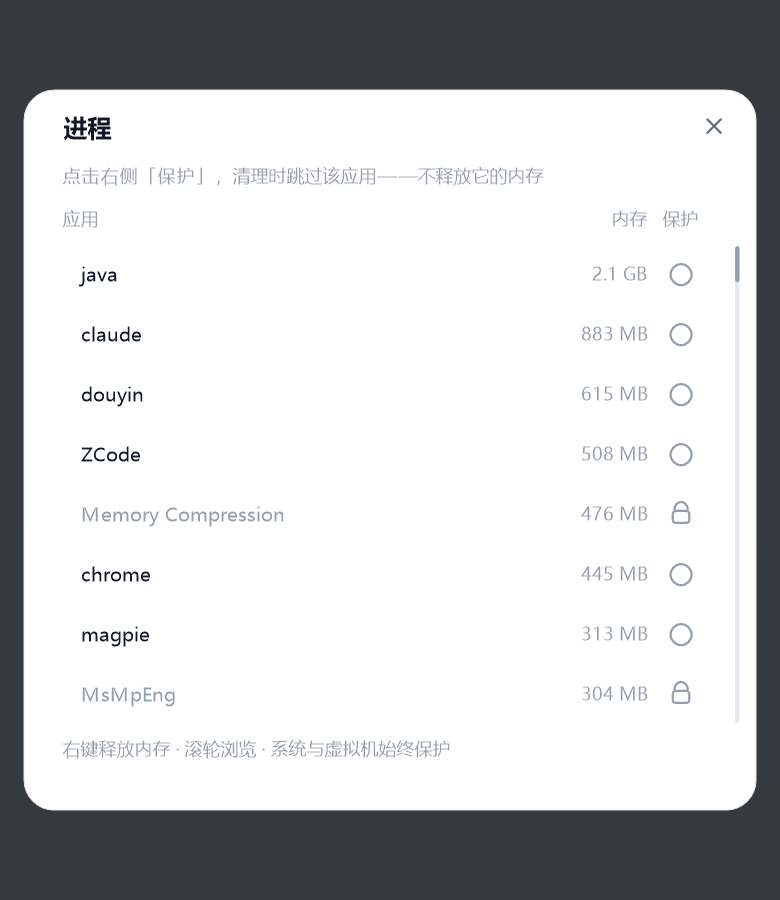
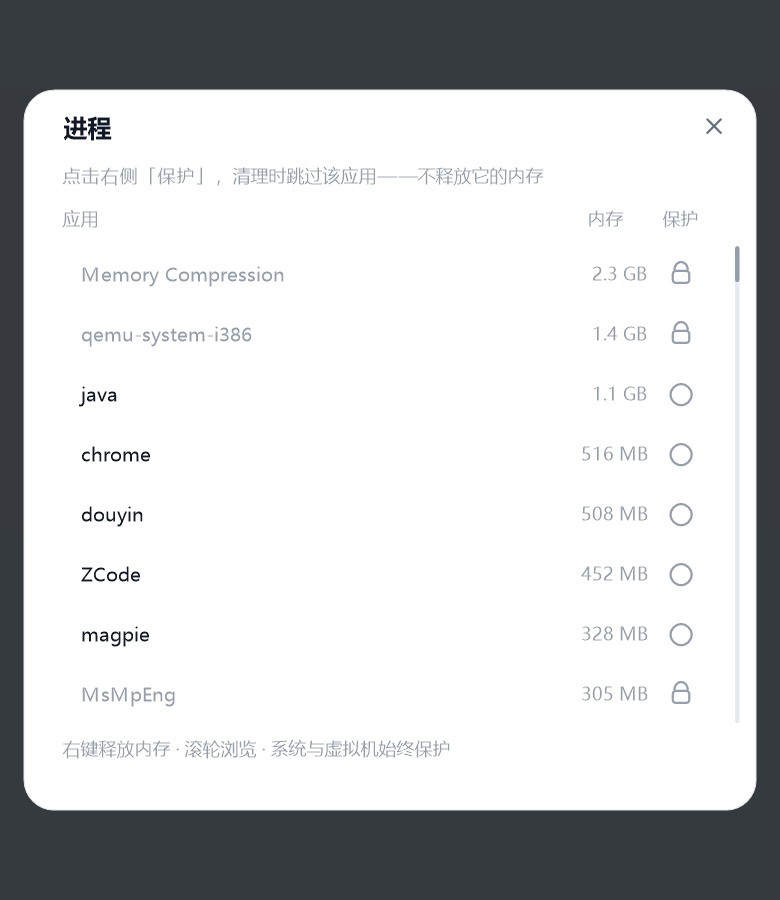
Release-readiness audit: fix install zip, whitelist .exe, EN layout (v1.9.10)
- Release zips now carry MemSweep.exe + install.cmd + uninstall.cmd +
  INSTALL.txt + LICENSE; both arches ship the exe as MemSweep.exe.
- install.cmd accepts the zip root or dist\; the old script only worked in
  a dev tree, so every download would have failed with 'run build.cmd'.
- release.yml stages per-arch folders, passes explicit files to gh (PowerShell
  does not expand globs for native commands), and runs build.cmd test before
  packaging; CI now also compiles ARM64.
- Whitelist matching normalizes .exe in RebuildWhitelist and in CommitSettings
  (dedupe + strip), so typing chrome.exe actually protects chrome.
- EN process header 'Memory Protect' no longer collides; EN advanced restores
  the Ctrl+Shift+M label. README memory numbers updated from fresh
  measurements (12MB/17MB visible, 9MB/8MB tray).
- INSTALL.txt for zips; docs/screenshots regenerated; v1.9.10.0, 413,184
  bytes, selftest PASS.

diff --git a/src/ui.cpp b/src/ui.cpp
@@ -786,7 +786,21 @@ static void CommitSettings() {
     if (g_edWL) GetWindowTextW(g_edWL, buf, 512);
     std::wstring wl = buf;
     if (wl.empty() && !g_wlDraft.empty()) wl = g_wlDraft;
-    g_cfg.whitelist = wl;
+    {
+        std::vector<std::wstring> names = SplitCSV(wl);
+        std::vector<std::wstring> canon;
+        for (auto n : names) {
+            if (n.size() > 4 && n.compare(n.size() - 4, 4, L".exe") == 0) n.resize(n.size() - 4);
+            if (n.empty()) continue;
+            if (std::find(canon.begin(), canon.end(), n) == canon.end()) canon.push_back(n);
+        }
+        std::wstring joined;
+        for (size_t i = 0; i < canon.size(); i++) {
+            if (i) joined += L", ";
+            joined += canon[i];
+        }
+        g_cfg.whitelist = joined;
+    }
     g_cfg.autostart = s_autostart;
     SaveConfig();
     RebuildWhitelist();
@@ -1312,7 +1326,7 @@ static void DrawProcessSheet(Graphics& g) {
                  L"Click Protect to skip this app when cleaning - its memory is left alone"),
            L.procSub, f11, T.text3);
     TextAt(g, Tx(L"应用", L"App"), RectF(L.procHeader.X, L.procHeader.Y, 120, 14), f11, T.text3);
-    TextAt(g, Tx(L"内存", L"Memory"), RectF(L.procHeader.GetRight() - 126, L.procHeader.Y, 80, 14),
+    TextAt(g, Tx(L"内存", L"Memory"), RectF(L.procHeader.GetRight() - 142, L.procHeader.Y, 80, 14),
            f11, T.text3, StringAlignmentFar);
     TextAt(g, Tx(L"保护", L"Protect"), RectF(L.procHeader.GetRight() - 46, L.procHeader.Y, 40, 14),
            f11, T.text3, StringAlignmentCenter);
@@ -1438,7 +1452,7 @@ static void DrawAdvancedSheet(Graphics& g) {
     const wchar_t* idZh[3] = { L"1 分钟", L"5 分钟", L"10 分钟" };
     const wchar_t* idEn[3] = { L"1m", L"5m", L"10m" };
     DrawSeg(g, L.advIdleSeg, idZh, idEn, 3, g_idleSel);
-    DrawSwitchRow(g, L.advHotkeyRow, L"全局热键 Ctrl+Shift+M", L"Global hotkey", s_hotkey,
+    DrawSwitchRow(g, L.advHotkeyRow, L"全局热键 Ctrl+Shift+M", L"Global hotkey Ctrl+Shift+M", s_hotkey,
                   ToggleValue(ID_TG_HOTKEY, s_hotkey));
     DrawSwitchRow(g, L.advEcoRow, L"后台效率模式", L"Efficiency mode", s_eco,
                   ToggleValue(ID_TG_ECO, s_eco));

diff --git a/src/core.cpp b/src/core.cpp
@@ -586,7 +586,11 @@ static std::unordered_set<std::wstring> g_whitelistSet;
 void RebuildWhitelist() {
     Config c = GetConfigSnapshot();
     std::unordered_set<std::wstring> next;
-    for (auto& n : SplitCSV(c.whitelist)) next.insert(n);
+    for (auto n : SplitCSV(c.whitelist)) {
+        // 手输 chrome.exe 与 chrome 等价：集合里统一去掉后缀，匹配才一致
+        if (n.size() > 4 && n.compare(n.size() - 4, 4, L".exe") == 0) n.resize(n.size() - 4);
+        if (!n.empty()) next.insert(n);
+    }
     EnterCriticalSection(&g_lock);
     g_whitelistSet.swap(next);
     LeaveCriticalSection(&g_lock);

diff --git a/src/common.h b/src/common.h
@@ -2,8 +2,8 @@
 #pragma once
 
 // 单一版本源：UI 关于页、诊断导出、日志共用；资源文件 res/app.rc 仍需手动同步。
-#define MEMSWEEP_VERSION      L"1.9.9"
-#define MEMSWEEP_VERSION_FULL L"1.9.9.0"
+#define MEMSWEEP_VERSION      L"1.9.10"
+#define MEMSWEEP_VERSION_FULL L"1.9.10.0"
 
 
 #define WIN32_LEAN_AND_MEAN

diff --git a/README.md b/README.md
@@ -4,7 +4,7 @@
 [![Release](https://img.shields.io/github/v/release/feiyu-labs/MemSweep)](https://github.com/feiyu-labs/MemSweep/releases/latest)
 [![License: MIT](https://img.shields.io/badge/License-MIT-green.svg)](LICENSE)
 
-> 单文件 ~359KB · 自身常驻约 8MB（主屏） · 零依赖 · 无网络无遥测 · 前台免疫 · UI 永不阻塞的 Windows 智能内存守护
+> 单文件 ~403KB · 主屏约 12MB / 托盘约 9MB（私有） · 零依赖 · 无网络无遥测 · 前台免疫 · UI 永不阻塞的 Windows 智能内存守护
 
 MemSweep 是为「重度开发机内存常年 90%+」场景设计的现代内存清理器。它把 2026 年全网内存清理方案
 （Mem Reduct / WinMemoryCleaner / Process Lasso SmartTrim / ISLC / RAMKeeper / WinMemClean 等）
@@ -17,7 +17,8 @@ MemSweep 是为「重度开发机内存常年 90%+」场景设计的现代内存
 ## 📦 获取
 
 - **下载**：[GitHub Releases](https://github.com/feiyu-labs/MemSweep/releases/latest)
-  （`MemSweep-<版本>-x64.zip` / `-arm64.zip`，各附 SHA256）
+  （`MemSweep-<版本>-x64.zip` / `-arm64.zip`，内含 `MemSweep.exe`、`install.cmd`、
+  `uninstall.cmd`、`INSTALL.txt`、`LICENSE`，各附 SHA256）
 - **安装**：解压后右键 `install.cmd` 以管理员运行（复制到 Program Files +
   计划任务开机自启 + 桌面快捷方式）；卸载运行 `uninstall.cmd`，配置与日志保留在
   `%APPDATA%\MemSweep\`
@@ -78,11 +79,11 @@ MemSweep 是为「重度开发机内存常年 90%+」场景设计的现代内存
 
 ![settings](docs/screenshot-settings.png)
 
-### 关于（v1.9.9）
+### 关于（v1.9.10）
 
 设置页底部「关于 MemSweep」或托盘右键 →「关于 MemSweep…」打开：
 
-- 品牌标记 + 版本/架构（`v1.9.9 · x64`）
+- 品牌标记 + 版本/架构（`v1.9.10 · x64`）
 - GitHub 仓库 / 问题反馈 / 检查更新（用系统浏览器打开，应用自身不联网）
 - `MIT License · 不联网 · 不收集数据 · © 2026 feiyu-labs`
 
@@ -177,7 +178,7 @@ MemSweep 是为「重度开发机内存常年 90%+」场景设计的现代内存
 - 窗口为 **无边框自绘**（无原生标题栏），Win11 DWM 圆角 + 阴影
 - 若面板被全屏游戏遮挡，会弹托盘气泡提示 `Alt+Tab`
 - **键盘**：`Esc` 关闭 Sheet / 隐藏、`Ctrl+Enter` 立即清理、`Ctrl+S` 立即保存当前设置
-- **内存**：主屏 **8.2MB 私有**；托盘隐藏 **6.5MB**（隐藏即释放双缓冲 + HeapCompact）；特权按需开启；全部窗口禁用 IME 注入
+- **内存**：主屏 **约 12MB 私有 / 17MB 工作集**；托盘隐藏 **约 9MB 私有**（隐藏即释放双缓冲 + HeapCompact，工作集可降到 3–8MB）；特权按需开启；全部窗口禁用 IME 注入
 
 ---
 
@@ -258,7 +259,7 @@ uninstall.cmd        :: 右键 → 以管理员身份运行
 - **Slint / egui**：原生 Rust UI，但常驻约 **30–95MB / 100–185MB**，且需要重写现有 C++ 引擎。
   仅在未来要跨平台时才值得评估 Slint。
 - **WinUI 3**：复杂应用实测 WS 约 155MB，还要 Windows App SDK；不符合轻量托盘工具。
-- **C++/Win32 + GDI+（当前）**：**8.2MB private / 12.7MB WS**（全新托盘 5.9MB），零额外运行时。
+- **C++/Win32 + GDI+（当前）**：**约 12MB private / 17MB WS**（主屏）、**约 9MB / 8MB**（全新托盘），零额外运行时。
   520×600 窗口下 GDI+ 足够；若未来过渡帧率不够，再加 Direct2D/DirectWrite + DirectComposition，
   仍然不引入 WebView。
 
@@ -271,8 +272,8 @@ uninstall.cmd        :: 右键 → 以管理员身份运行
 |---|---|
 | **v1.7 单次快速清理（提权）** | 候选 117，修剪 116，全量缓存 + 文件缓存，**空闲 +3509MB，可用 +1128MB，4.14s** |
 | **v1.7 自动低优先级缓存** | 缓存 2.3GB；**空闲 3.3→4.2GB（+991MB）**，可用 5.5→5.5GB，0.34s |
-| **v1.7 深度整理（可选）** | 合并 155,320 页 ≈607MB，空闲 +1635MB，可用 +1112MB，总 9.94s；另一次 143,453 页/560MB/7.2s |
-| **v1.7 深度整理最慢样本** | 合并 284,040 页 ≈1.1GB，可用 1.8→5.8GB，但耗时 **52.6s** → 因此默认关闭 |
+| **v1.7 深度清理（可选）** | 合并 155,320 页 ≈607MB，空闲 +1635MB，可用 +1112MB，总 9.94s；另一次 143,453 页/560MB/7.2s |
+| **v1.7 深度整理最慢样本** | 合并 284,040 页 ≈1.1GB，可用 1.8→5.8GB，但耗时 **52.6s** → 仅在「清理力度=深度」或托盘显式动作时执行 |
 | **v1.8 页面合并（EventHandle）** | 合并 221,659 页 ≈866MB，空闲 20MB→1.2GB，18.1s；超时/取消可中止 |
 | **v1.8 离开时维护实测** | 空闲 5 秒测试配置：合并 280,733 页 ≈1.1GB，**空闲 +963MB，可用 +751MB，14.9s** |
 | **v1.9.2 CPU 预算** | 主屏可见 **1.6%**（托盘图标按百分比重建节流后）；隐藏态 1.6~4.7% 波动来自整机负载与 5s 采样守护（tick 实测 0.32%）；环境高光 6.7fps |
@@ -287,8 +288,8 @@ uninstall.cmd        :: 右键 → 以管理员身份运行
 
 ### 当前部署状态（2026-11-15）
 
-- 安装位置：`C:\Program Files\MemSweep\MemSweep.exe`（**v1.9.9.0**，412,160 字节）
[1 lines of base64/hex data omitted]
+- 安装位置：`C:\Program Files\MemSweep\MemSweep.exe`（**v1.9.10.0**，413,184 字节）
[1 lines of base64/hex data omitted]
 - 计划任务：`MemSweep`（登录触发 / HighestAvailable / 电池供电可启动 / 无限执行时限）
 - `WinMemoryCleaner`：**已彻底移除**（进程/任务/winget 包/ARP/注册表/快捷方式/残留目录）
 - 主题：浅色（面板底部 自动/浅色/深色，已验证点击生效）

diff --git a/CHANGELOG.md b/CHANGELOG.md
@@ -1,5 +1,28 @@
 # Changelog
 
+## v1.9.10 — 2026-11-16
+
+### 发布链路修复（发版前审计）
+- **release zip 缺安装脚本**：README 让用户“右键 install.cmd”，但 zip 之前只有 exe/LICENSE/README。
+  现在 x64 / arm64 两个 zip 都含 `MemSweep.exe`、`install.cmd`、`uninstall.cmd`、`INSTALL.txt`、`LICENSE`。
+- **install.cmd 只认 `dist\MemSweep.exe`**：从 zip 根目录运行会报“请先运行 build.cmd”。现在优先同目录，
+  回退 `dist\`。
+- **ARM64 包内 exe 名**：打包时统一重命名为 `MemSweep.exe`（两个架构各自成 zip），install.cmd 无需分支。
+- **release.yml**：`gh release create` 不再依赖 shell 通配符（PowerShell 不展开），改为显式文件列表；
+  CI 增加 ARM64 编译检查；zip 内不再放带相对图片的 README，改用 `INSTALL.txt`。
+
+### 逻辑 / 文案修复
+- **白名单 `chrome.exe` 匹配失败**：匹配集合统一去掉 `.exe`；设置页保存时也做规范化与去重，
+  `chrome.exe` 与 `chrome` 真正等价。
+- EN 进程表头 “Memory” 与 “Protect” 粘连 → 拉开间距；EN 高级页补回 `Ctrl+Shift+M`。
+- README 内存数字按实测更新（主屏约 12MB 私有 / 17MB WS；托盘约 9MB / 8MB），
+  术语「深度整理」→「深度清理」。
+
+### 验证
+- `build.cmd test` PASS 零警告；`build.cmd release` / `build.cmd arm64` 均构建通过；安装版 selftest PASS。
+- 模拟打包检查 zip 内容；FileDescription=MemSweep，FileVersion=1.9.10.0。
[1 lines of base64/hex data omitted]
+
 ## v1.9.9 — 2026-11-16
 
 ### 清理完成的界面确认（用户反馈）

diff --git a/docs/ENGINEERING.md b/docs/ENGINEERING.md
@@ -55,7 +55,10 @@ res/             图标、UAC 清单、版本信息
 16. **清理完成反馈**：托盘气泡之外，主屏状态区必须显示 6s 结果（清理完成 + 释放/可用）；
     到期由 1s tick 清理并重绘。Toast 宽度按文本测量（200–`L.w-32`）、底部居中，
     不得用固定宽度；Windows 通知头部的应用名来自 `FileDescription`，必须短（MemSweep）。
-17. **布局完整性 / 模态绘制**：`BuildLayout` 必须为当前屏幕的**所有**绘制几何赋值，
+17. **发布物完整性**：两个架构的 zip 必须包含 `MemSweep.exe`（统一名）、`install.cmd`、
+    `uninstall.cmd`、`INSTALL.txt`、`LICENSE`；`install.cmd` 要同时支持 zip 根目录与 `dist\`；
+    CI 必须编译 ARM64；release 的 `gh` 参数用显式文件列表，不依赖 shell 通配符。
+18. **布局完整性 / 模态绘制**：`BuildLayout` 必须为当前屏幕的**所有**绘制几何赋值，
     不得按 Sheet 状态跳过首页矩形（`Layout()` 的 `RectF` 默认构造不初始化，读到即随机坐标，
     v1.9.4 左上角残影教训）。Sheet 打开时 `DrawAll` 只画「背景 + 遮罩 + Sheet」，
     不画首页/标题栏——16px 边缘只会露出被裁切的碎片，视觉上更像故障。
